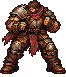
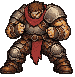
[Art] 사마귀, 돌격병, 방패를 시트 v2로, 전사를 v3(옛 자세 참조)로 교체, 캐릭터 7종 좌우 방향 맞춤
- 시트 v2(ArtSource/Original/characters_sheet_v2.png): 웅크린 사마귀, 사람 돌격병(오크 아님), 위에서 본 방패
- 시트 v3: 칼을 든 옛 전사 자세를 참조로 다시 뽑은 전사(v1은 칼을 내리고 있어 방패병과 헷갈림)
- 사마귀 49 → 51px, 돌격병 66 → 75px 캔버스 넓힘(기준점 비율 다시 계산), 키, 발밑, PPU 유지
- 고블린과 적 6종이 진행 방향과 반대를 봐서, 프리팹의 _artFacesRight는 두고 그림을 제자리에서 좌우 뒤집음(apply_sheet.py 뒤집기 칸, 전사 v3와 방패는 그대로)
- pixel_ppu32.py 목록에서 시트로 바꾼 그림 제외, 기준서 방향 규칙 바로잡음, 데브로그 1줄

diff --git a/ArtSource/apply_sheet.py b/ArtSource/apply_sheet.py
@@ -16,14 +16,23 @@ import pixel_ppu32 as pp
 ROOT = pp.ROOT
 SHEETS = {
     "v1": os.path.join(ROOT, "ArtSource", "Original", "characters_sheet_v1.webp"),
+    # v1의 사마귀(서 있는 곤충), 돌격병(오크), 방패(정면)를 다시 뽑은 것
+    "v2": os.path.join(ROOT, "ArtSource", "Original", "characters_sheet_v2.png"),
+    # 전사 한 장: v1은 칼을 내리고 있어 방패병과 헷갈려, 옛 전사 자세를 참조로 다시 뽑음
+    "v3": os.path.join(ROOT, "ArtSource", "Original", "characters_sheet_v3.png"),
 }
-# (시트, 시트 안 순서(왼쪽 위부터 줄 단위), 게임 그림)
+# (시트, 시트 안 순서(왼쪽 위부터 줄 단위), 게임 그림, 좌우 뒤집기)
+# 캐릭터는 옛 그림과 반대 방향으로 그려져 있어 뒤집는다. 플레이어, 적은 프리팹의 _artFacesRight(옛 그림 방향)에 맞춰
+# 진행 방향으로 뒤집으므로, 값을 바꾸는 대신 그림을 옛 방향에 맞춘다(11/6 전부 반대로 보임). 방패는 돌아가는 그림이라 그대로
 TARGETS = [
-    ("v1", 0, "Player3.png"),
-    ("v1", 1, "Knight_hd.png"),
-    ("v1", 2, "Archer_hd.png"),
-    ("v1", 4, "Shielder_hd.png"),
-    ("v1", 5, "Sniper_hd.png"),
+    ("v1", 0, "Player3.png", True),
+    ("v3", 0, "Knight_hd.png", False),   # 옛 자세를 따라 그려 방향도 옛 그림과 같다
+    ("v1", 2, "Archer_hd.png", True),
+    ("v1", 4, "Shielder_hd.png", True),
+    ("v1", 5, "Sniper_hd.png", True),
+    ("v2", 0, "Mantis_hd.png", True),
+    ("v2", 1, "Charger_hd.png", True),
+    ("v2", 2, "shielder_shield.png", False),
 ]
 ROW_SPLIT = 450   # 시트에서 이 y보다 아래면 둘째 줄
 
@@ -52,7 +61,7 @@ def main():
     pal = pp.load_palette()
     cache = {}
     results = []
-    for sheet_key, index, rel in TARGETS:
+    for sheet_key, index, rel, mirror in TARGETS:
         if sheet_key not in cache:
             cache[sheet_key] = pieces(np.asarray(Image.open(SHEETS[sheet_key]).convert("RGBA")) / 255.0)
         src = cache[sheet_key][index]
@@ -63,6 +72,9 @@ def main():
         fig_h = y1 - y0 + 1
         fig_w = max(1, round(src.shape[1] * fig_h / src.shape[0]))
         fig = pp.apply_palette(pp.outline(pp.remove_islands(pp.shrink(src, fig_w, fig_h)), "ink"), pal)
+        if mirror:
+            # 그림만 제자리에서 뒤집어, 가운데와 기준점은 그대로 둔다(다시 돌려도 같은 결과)
+            fig = fig[:, ::-1]
         # 키와 발밑 줄은 지금 그림 그대로, 가로 가운데도 지금 그림 가운데에 맞춘다. 넓으면 캔버스를 양쪽으로 넓힌다
         nw = max(cw, fig_w + 2)
         shift = (nw - cw) // 2

diff --git a/Docs/devlog.md b/Docs/devlog.md
@@ -361,3 +361,4 @@
 2026-11-06 | 바닥 이음선과 금이 울퉁불퉁한 점선이 돼 눈이 아픔(사용자 지적) | AI가 바닥도 PixelOE k_centroid로 줄였는데, 칸마다 두 색 중 하나를 골라 1~2px 줄이 칸에 따라 끊김 | 바닥 타일, 바닥 장식은 넓이 평균으로 줄이고 반투명은 4단계로 남김(금, 바퀴 자국이 반투명 37~74%) | 이음선이 곧게 이어지고 금이 사라지지 않음
 2026-11-06 | 외곽선을 통일했더니 훈련 건물 아래에 줄이 하나 더 보이고, 고블린 손과 귀가 붙어 보임(사용자 지적) | AI가 두 겹 외곽선의 둘째 겹을 주변에서 가장 밝은 색으로 채움. 원본 소품 외곽선은 검정 → 진회색으로 4겹까지 번져 있어 진회색 겹이 남고, 캐릭터는 손, 귀 사이 구분선까지 밝게 칠해짐 | 캐릭터는 가장 바깥 1px만 검게(안쪽 손대지 않음), 소품은 가장자리에서 이어진 어두운 겹을 넷째 겹, 밝기 0.4까지 지우고 6px 미만 부스러기 제거(바닥의 검은 점) | 건물 아래 외곽선 한 줄, 고블린 손, 귀, 폭탄 구분됨
 2026-11-06 | 풀 울타리에 검은 테두리가 있는 것과 없는 것이 섞임, 외곽선을 넣으면 조각 이음매마다 세로줄(사용자 지적) | 원본마다 테두리 정도가 다름(가장자리 어두운 비율 2~55%). 풀 울타리1은 152조각이 가로세로로 이어지는 블록이라 그림만으로는 바깥쪽을 알 수 없음. 처음엔 지운 자리를 가장 밝은 색으로 채워 밝은 세로줄이 생김 | 풀 울타리, 풀 아치는 원래 테두리까지 지워 외곽선 없는 지형으로 통일, 지운 자리는 주변 중간 밝기 색 | 울타리끼리 같은 모양, 이음매 밝은 줄 없음(옅은 세로줄과 1px 틈은 남음)
+2026-11-06 | 생성 시트로 바꾼 고블린과 적 6종이 모두 진행 방향과 반대를 봄(사용자 지적) | AI가 적은 좌우를 뒤집지 않는다고 잘못 판단함(검색 패턴 실수). 실제로는 플레이어, 적 모두 프리팹의 _artFacesRight(옛 그림 방향)로 뒤집는데 새 그림은 반대로 그려져 있었음 | 프리팹, 인트로, 크레딧 값은 두고 apply_sheet.py에서 그림을 제자리 좌우 뒤집기(기준점 유지). 기준서 방향 규칙도 바로잡음 | 진행 방향을 봄

diff --git a/Docs/art-guide.md b/Docs/art-guide.md
@@ -17,7 +17,7 @@
 | 배경 | **단색 마젠타 `#FF00FF`**. 투명 배경을 시키면 바둑판 무늬를 그려 넣는다(핸드오프 2번) |
 | 바닥 그림자 | 그리지 않는다. 게임이 따로 그린다 |
 | 자세 | 캐릭터는 제자리 전투 자세 한 장. 걷기, 공격은 코드가 출렁임, 눌림으로 만든다 |
-| 방향 | **플레이어(고블린)**: 오른쪽을 본다. 코드가 좌우를 뒤집는다(`PlayerVisual`). **적**: 보는 사람 쪽(아래)을 보고 몸만 살짝 오른쪽. 적은 좌우를 뒤집지 않아 어느 쪽으로 가도 어색하지 않아야 한다 |
+| 방향 | 플레이어(`PlayerVisual`)와 적(`EnemyVisual`) 모두 프리팹의 `_artFacesRight`(그림이 원래 보는 방향)를 기준으로 진행 방향에 맞춰 좌우를 뒤집는다. 새 그림 방향이 옛 그림과 다르면 값을 바꾸지 말고 `apply_sheet.py`의 좌우 뒤집기 칸으로 그림을 옛 방향에 맞춘다(인트로, 크레딧 연출도 옛 방향 기준) |
 | 발밑 | 발바닥이 칸의 **바닥선**에 닿는다. 게임의 기준점이 발밑이다 |
 
 ---
